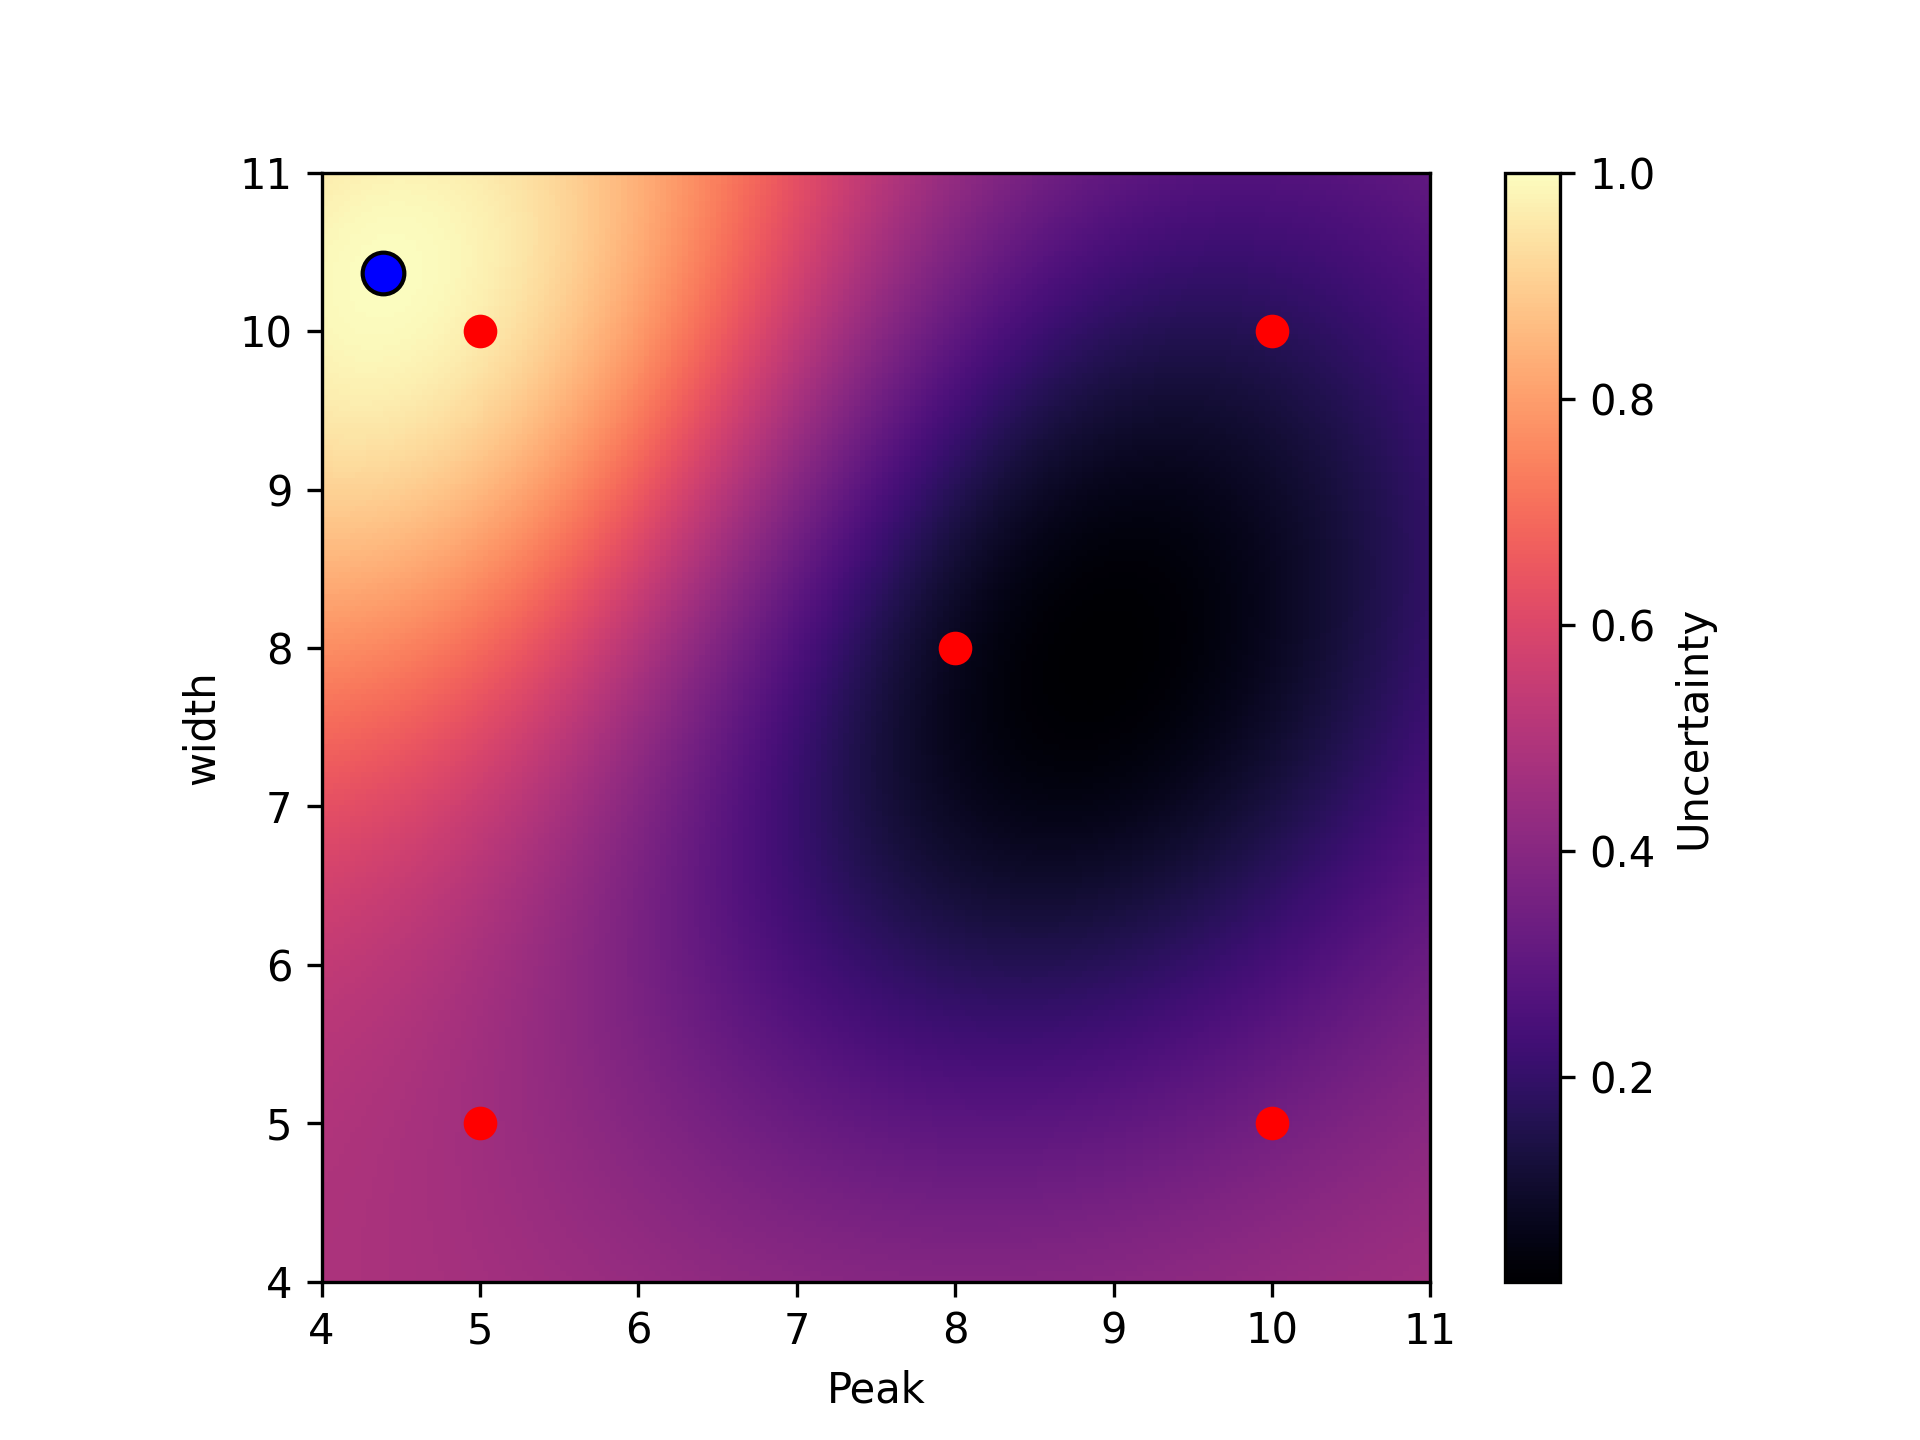
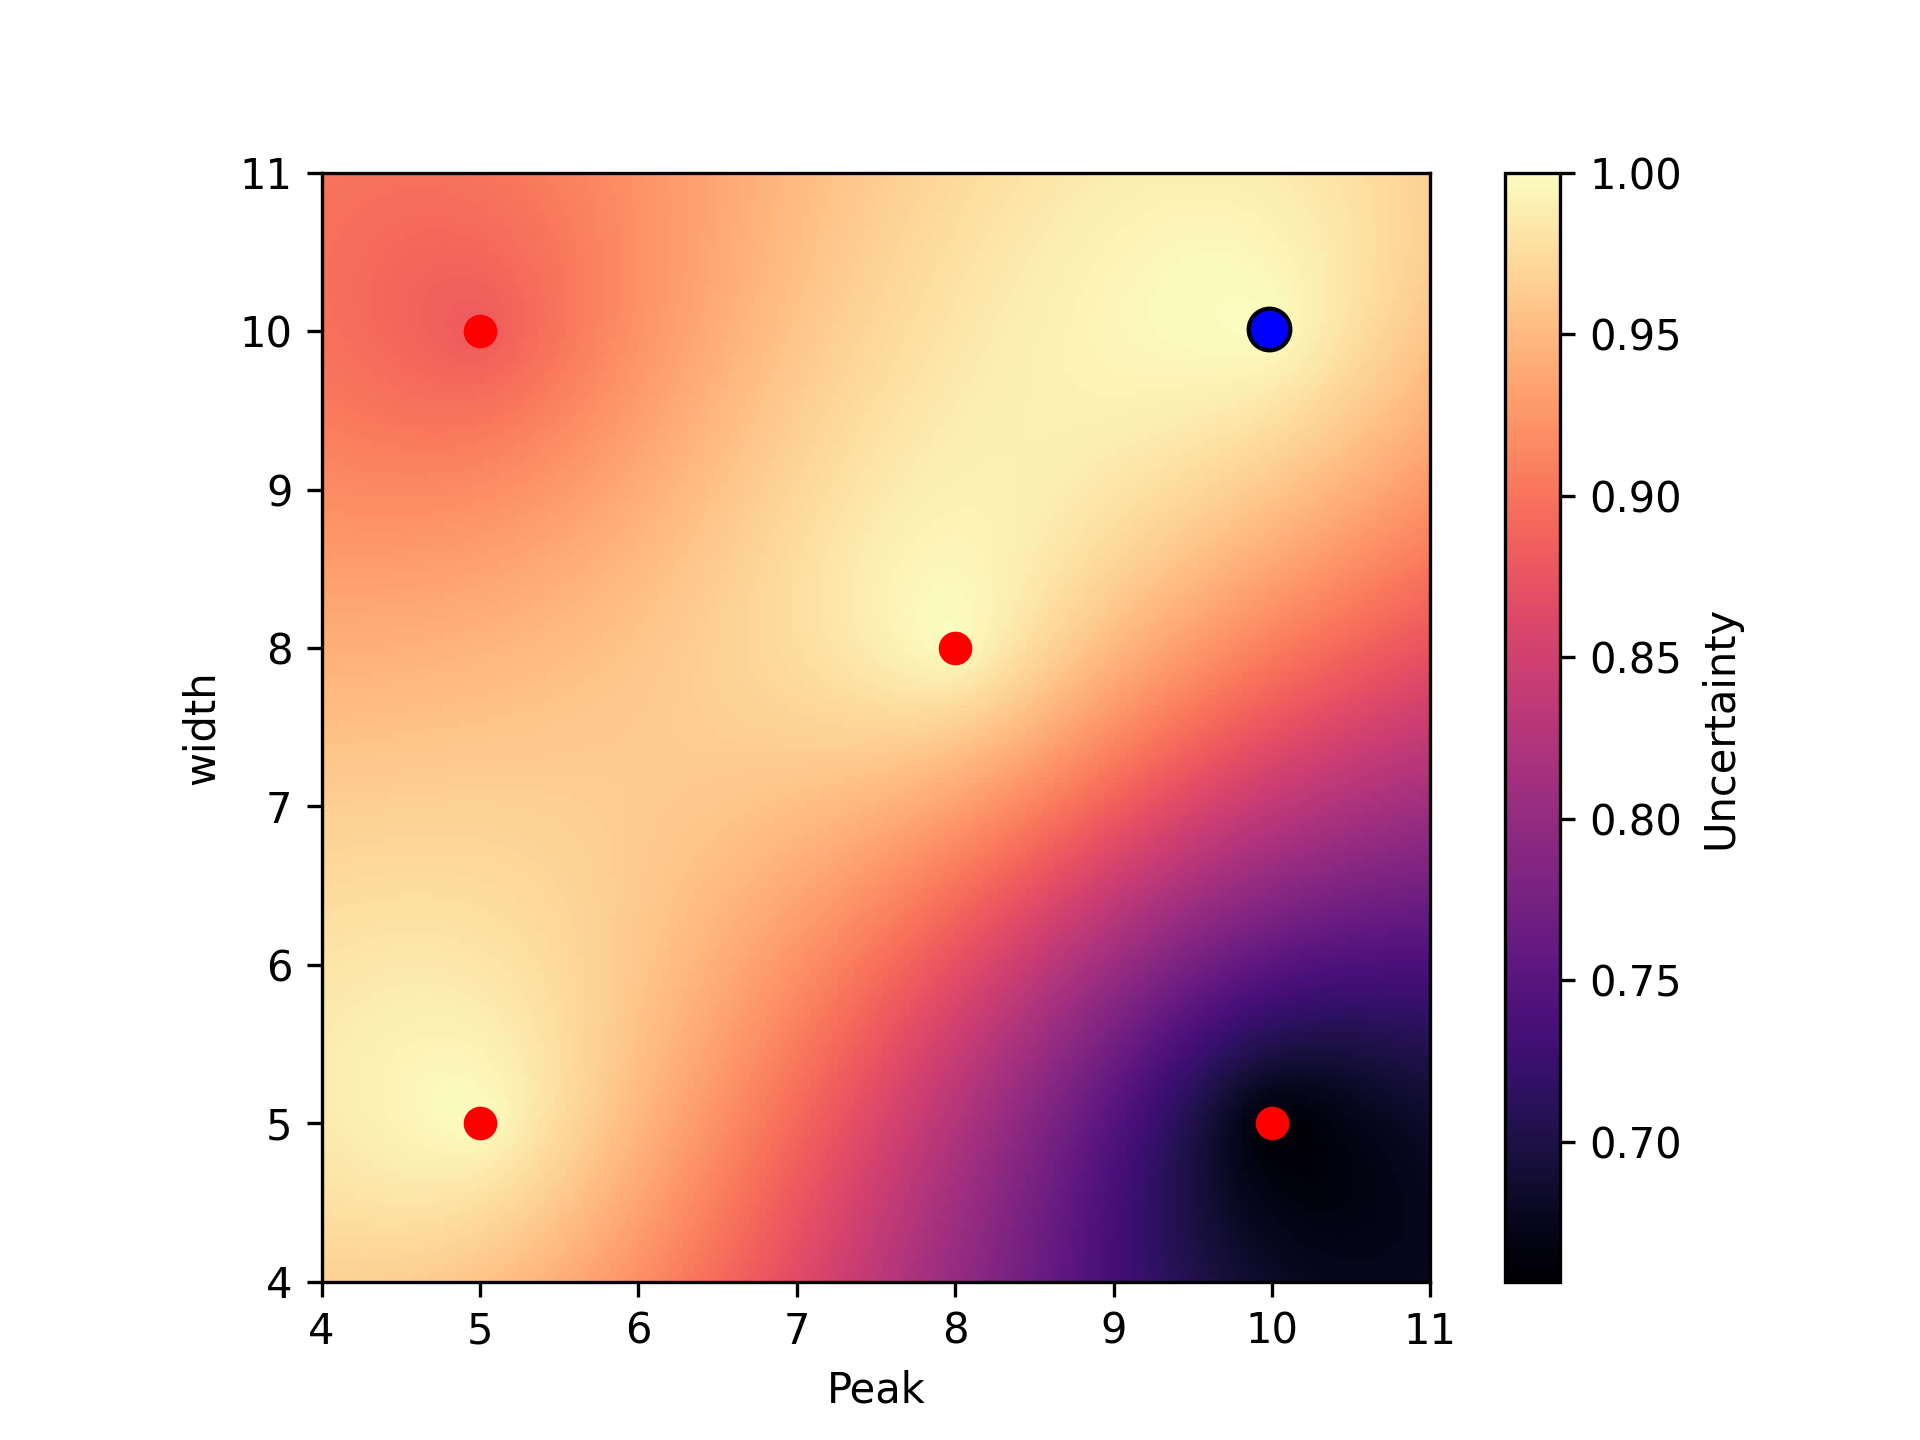
krispu_v2

diff --git a/source/KRISPU.py b/source/KRISPU.py
@@ -60,48 +60,53 @@ class KRISPU:
 
     def evaluate(self, metric=None):
         """
-        Evaluates the model using cross-validation by predicting all coordinates in each fold.
+        Evaluates the model using cross-validation by removing one point at a time.
 
-        Computes per-point uncertainty as KLD between the distribution of predictions
-        across folds and the ground truth.
+        For each fold, removes one point, fits the model to the rest, predicts over the grid,
+        computes the metric (e.g., KLD) between the full-data prediction and the leave-one-out prediction
+        over the entire field, and assigns that uncertainty to the removed point.
 
         Returns:
-            uncertainties (np.ndarray): Per-point uncertainty values.
+            uncertainties (np.ndarray): Uncertainty value for each original data point (shape: n_samples,).
             mean_uncertainty (float): Mean uncertainty across all points.
         """
-        all_fold_preds = []  # Each entry is a prediction of all points from one fold
-        y_true_all = self.y.copy()
+        if metric is None:
+            raise ValueError("A metric function must be provided for evaluation.")
+        if not callable(metric):
+            raise ValueError("The metric must be a callable function.")
+        if self.gridx is None or self.gridy is None:
+            raise ValueError("Grid coordinates (gridx, gridy) must be defined before evaluation, use fit() method first.")
 
-        for train_index, _ in self.splitter.split(self.X):
+        n_samples = self.X.shape[0]
+        uncertainties = np.zeros(n_samples)
+
+        # Fit model on all data to get "ground truth" grid
+        model_full = self.model_class(
+            self.X[:, 0], self.X[:, 1], self.y, **self.model_kwargs
+        )
+        z_true, _ = model_full.execute("grid", self.gridx, self.gridy)
+        z_true_flat = z_true.ravel()
+
+        for idx, (train_index, test_index) in enumerate(self.splitter.split(self.X)):
             X_train, y_train = self.X[train_index], self.y[train_index]
-
             model = self.model_class(
                 X_train[:, 0], X_train[:, 1], y_train, **self.model_kwargs
             )
+            z_pred, _ = model.execute("grid", self.gridx, self.gridy)
+            z_pred_flat = z_pred.ravel()
 
-            # Predict all coordinates
-            z, _ = model.execute("points", self.X[:, 0], self.X[:, 1])
-            all_fold_preds.append(z)
+            # Compute uncertainty over the whole field
+            uncertainty = metric(z_true_flat, z_pred_flat)
+            # Assign this uncertainty to the removed point
+            uncertainties[test_index[0]] = uncertainty
 
-        # Convert to 2D array: shape (n_folds, n_points)
-        preds_matrix = np.vstack(all_fold_preds).T  # shape: (n_points, n_folds)
-
-        # Compute KLD for each point using its distribution of predictions
-        uncertainties = []
-        for i in range(preds_matrix.shape[0]):
-            preds_i = preds_matrix[i, :]  # predictions for point i across folds
-            true_i = np.full_like(preds_i, fill_value=y_true_all[i])
-            kld_i = KLD(true_i, preds_i)
-            uncertainties.append(kld_i)
-
-        uncertainties = np.array(uncertainties)
-        mean_uncertainty = np.mean(uncertainties)
+        sum_uncertainty = np.sum(uncertainties)
         self.uncertainty_points = (self.X, uncertainties)
 
-        print(f"Mean uncertainty: {mean_uncertainty:.4f}")
-        return uncertainties, mean_uncertainty
+        print(f"sum uncertainty: {sum_uncertainty:.4f}")
+        return sum_uncertainty
 
-    def interpolate_uncertainty(self, gridx, gridy):
+    def interpolate_uncertainty(self, gridx, gridy, method='linear'):
         """
         Interpolates the predicted uncertainties over a spatial grid.
         """
@@ -114,7 +119,7 @@ class KRISPU:
         z = uncertainties
 
         kriging = OrdinaryKriging(
-            x, y, z, variogram_model='gaussian', verbose=False, enable_plotting=False
+            x, y, z, variogram_model=method, verbose=False, enable_plotting=False
         )
         z_grid, _ = kriging.execute("grid", gridx, gridy)
         z_grid = z_grid / np.max(z_grid)

diff --git a/source/multiple_iter_example.py b/source/multiple_iter_example.py
@@ -1,0 +1,80 @@
+import numpy as np
+from sklearn.model_selection import LeaveOneOut, KFold
+from pykrige.ok import OrdinaryKriging
+import matplotlib.pyplot as plt
+from Utilities import KLD, MSE, JSD
+from KRISPU import KRISPU
+
+
+if __name__ == "__main__":
+    X_coords, Y_coords, Z = np.loadtxt('example_data.csv', unpack=True, dtype=float, delimiter='\t', skiprows=1)
+    X = np.column_stack((X_coords, Y_coords))
+
+    model_kwargs = {'variogram_model': 'linear', 'verbose': False, 'enable_plotting': False}
+
+    # Define grid
+    gridx = np.linspace(4, 11, 200)
+    gridy = np.linspace(4, 11, 200)
+
+    sum_uncertainty_ls = []
+
+    n_iterations = 10  # Number of iterations to add new points
+    for iteration in range(n_iterations):
+        krispu = KRISPU(X, Z, model_class=OrdinaryKriging, model_kwargs=model_kwargs)
+        z = krispu.fit(gridx, gridy)
+        sum_uncertainty = krispu.evaluate(KLD)
+        uncertainty = krispu.interpolate_uncertainty(gridx, gridy)
+        sum_uncertainty_ls.append(sum_uncertainty)
+        # Plot prediction
+        im = plt.imshow(z, extent=(gridx.min(), gridx.max(), gridy.min(), gridy.max()), origin='lower', cmap='viridis')
+        plt.colorbar(im, label='# to failure (output)')
+        plt.scatter(X[:, 0], X[:, 1], c='red', label='Data Points', s=50)
+        plt.xlabel('Peak')
+        plt.ylabel('width')
+        plt.legend()
+        plt.title(f'Prediction Iteration {iteration+1}')
+        plt.savefig(f'krispu_prediction_iter{iteration+1}.png', dpi=300)
+        #plt.show()
+        plt.close()
+
+        # Find coordinates of highest uncertainty
+        max_uncertainty_index = np.unravel_index(np.argmax(uncertainty), uncertainty.shape)
+        max_uncertainty_coords = (gridx[max_uncertainty_index[1]], gridy[max_uncertainty_index[0]])
+        #check if the coordinates are already in X
+        if np.any(np.all(X == max_uncertainty_coords, axis=1)):
+            print(f"Coordinates {max_uncertainty_coords} already exist in X. Skipping addition.")
+            #make a new point by adding a small random perturbation
+            max_uncertainty_coords = (max_uncertainty_coords[0] + np.random.uniform(-0.1, 0.1), 
+                                      max_uncertainty_coords[1] + np.random.uniform(-0.1, 0.1))
+        # Plot uncertainty
+        im = plt.imshow(uncertainty, extent=(gridx.min(), gridx.max(), gridy.min(), gridy.max()), origin='lower', cmap='magma')
+        plt.scatter(X[:, 0], X[:, 1], c='red', label='Data Points', s=50)
+        plt.scatter(max_uncertainty_coords[0], max_uncertainty_coords[1], c='blue', label='Max Uncertainty', s=100, edgecolor='black')
+        plt.colorbar(im, label='Uncertainty')
+        plt.xlabel('Peak')
+        plt.ylabel('width')
+        plt.legend()
+        plt.title(f'Uncertainty Iteration {iteration+1}')
+        plt.savefig(f'krispu_uncertainty_iter{iteration+1}.png', dpi=300)
+        #plt.show()
+        plt.close()
+
+        # Add new data point at max uncertainty
+        # For demonstration, use the predicted value at that location as the new Z value
+        new_X = np.array([[max_uncertainty_coords[0], max_uncertainty_coords[1]]])
+        new_Z = np.array([z[max_uncertainty_index[0], max_uncertainty_index[1]]]) + np.random.normal(0, 0.1)  # Adding some noise to the new Z value
+        X = np.vstack([X, new_X])
+        Z = np.append(Z, new_Z)
+
+    # Plot sum of uncertainties over iterations
+    print(f"Sum of uncertainties over iterations: {sum_uncertainty_ls}")
+    sum_uncertainty_ls = np.array(sum_uncertainty_ls)
+
+    plt.plot(sum_uncertainty_ls, marker='o')
+    plt.xlabel('Iteration')
+    plt.ylabel('Sum of Uncertainties')
+    plt.title('Sum of Uncertainties Over Iterations')
+    plt.grid()
+    plt.savefig('sum_uncertainties.png', dpi=300)
+    plt.show()
+    plt.close()

diff --git a/source/example.py b/source/example.py
@@ -13,8 +13,7 @@ if __name__ == "__main__":
     model_kwargs = {'variogram_model': 'linear', 'verbose': False, 'enable_plotting': False}
     krispu = KRISPU(X, Z, model_class=OrdinaryKriging, model_kwargs=model_kwargs)
 
-    # Evaluate uncertainty
-    krispu.evaluate(KLD)
+
 
     # Define grid
     gridx = np.linspace(4, 11, 200)
@@ -22,6 +21,8 @@ if __name__ == "__main__":
 
     # Fit model and interpolate uncertainty
     z = krispu.fit(gridx, gridy)
+    # Evaluate uncertainty
+    krispu.evaluate(KLD)
     uncertainty = krispu.interpolate_uncertainty(gridx, gridy)
 
     #plotting
@@ -38,7 +39,6 @@ if __name__ == "__main__":
     #coordinates of highest uncertainty
     max_uncertainty_index = np.unravel_index(np.argmax(uncertainty), uncertainty.shape)
     max_uncertainty_coords = (gridx[max_uncertainty_index[1]], gridy[max_uncertainty_index[0]])
-    print(f"Coordinates of highest uncertainty: {max_uncertainty_coords}")
 
     # Plot both prediction and uncertainty
     im = plt.imshow(uncertainty, extent=(gridx.min(), gridx.max(), gridy.min(), gridy.max()), origin='lower', cmap='magma')
